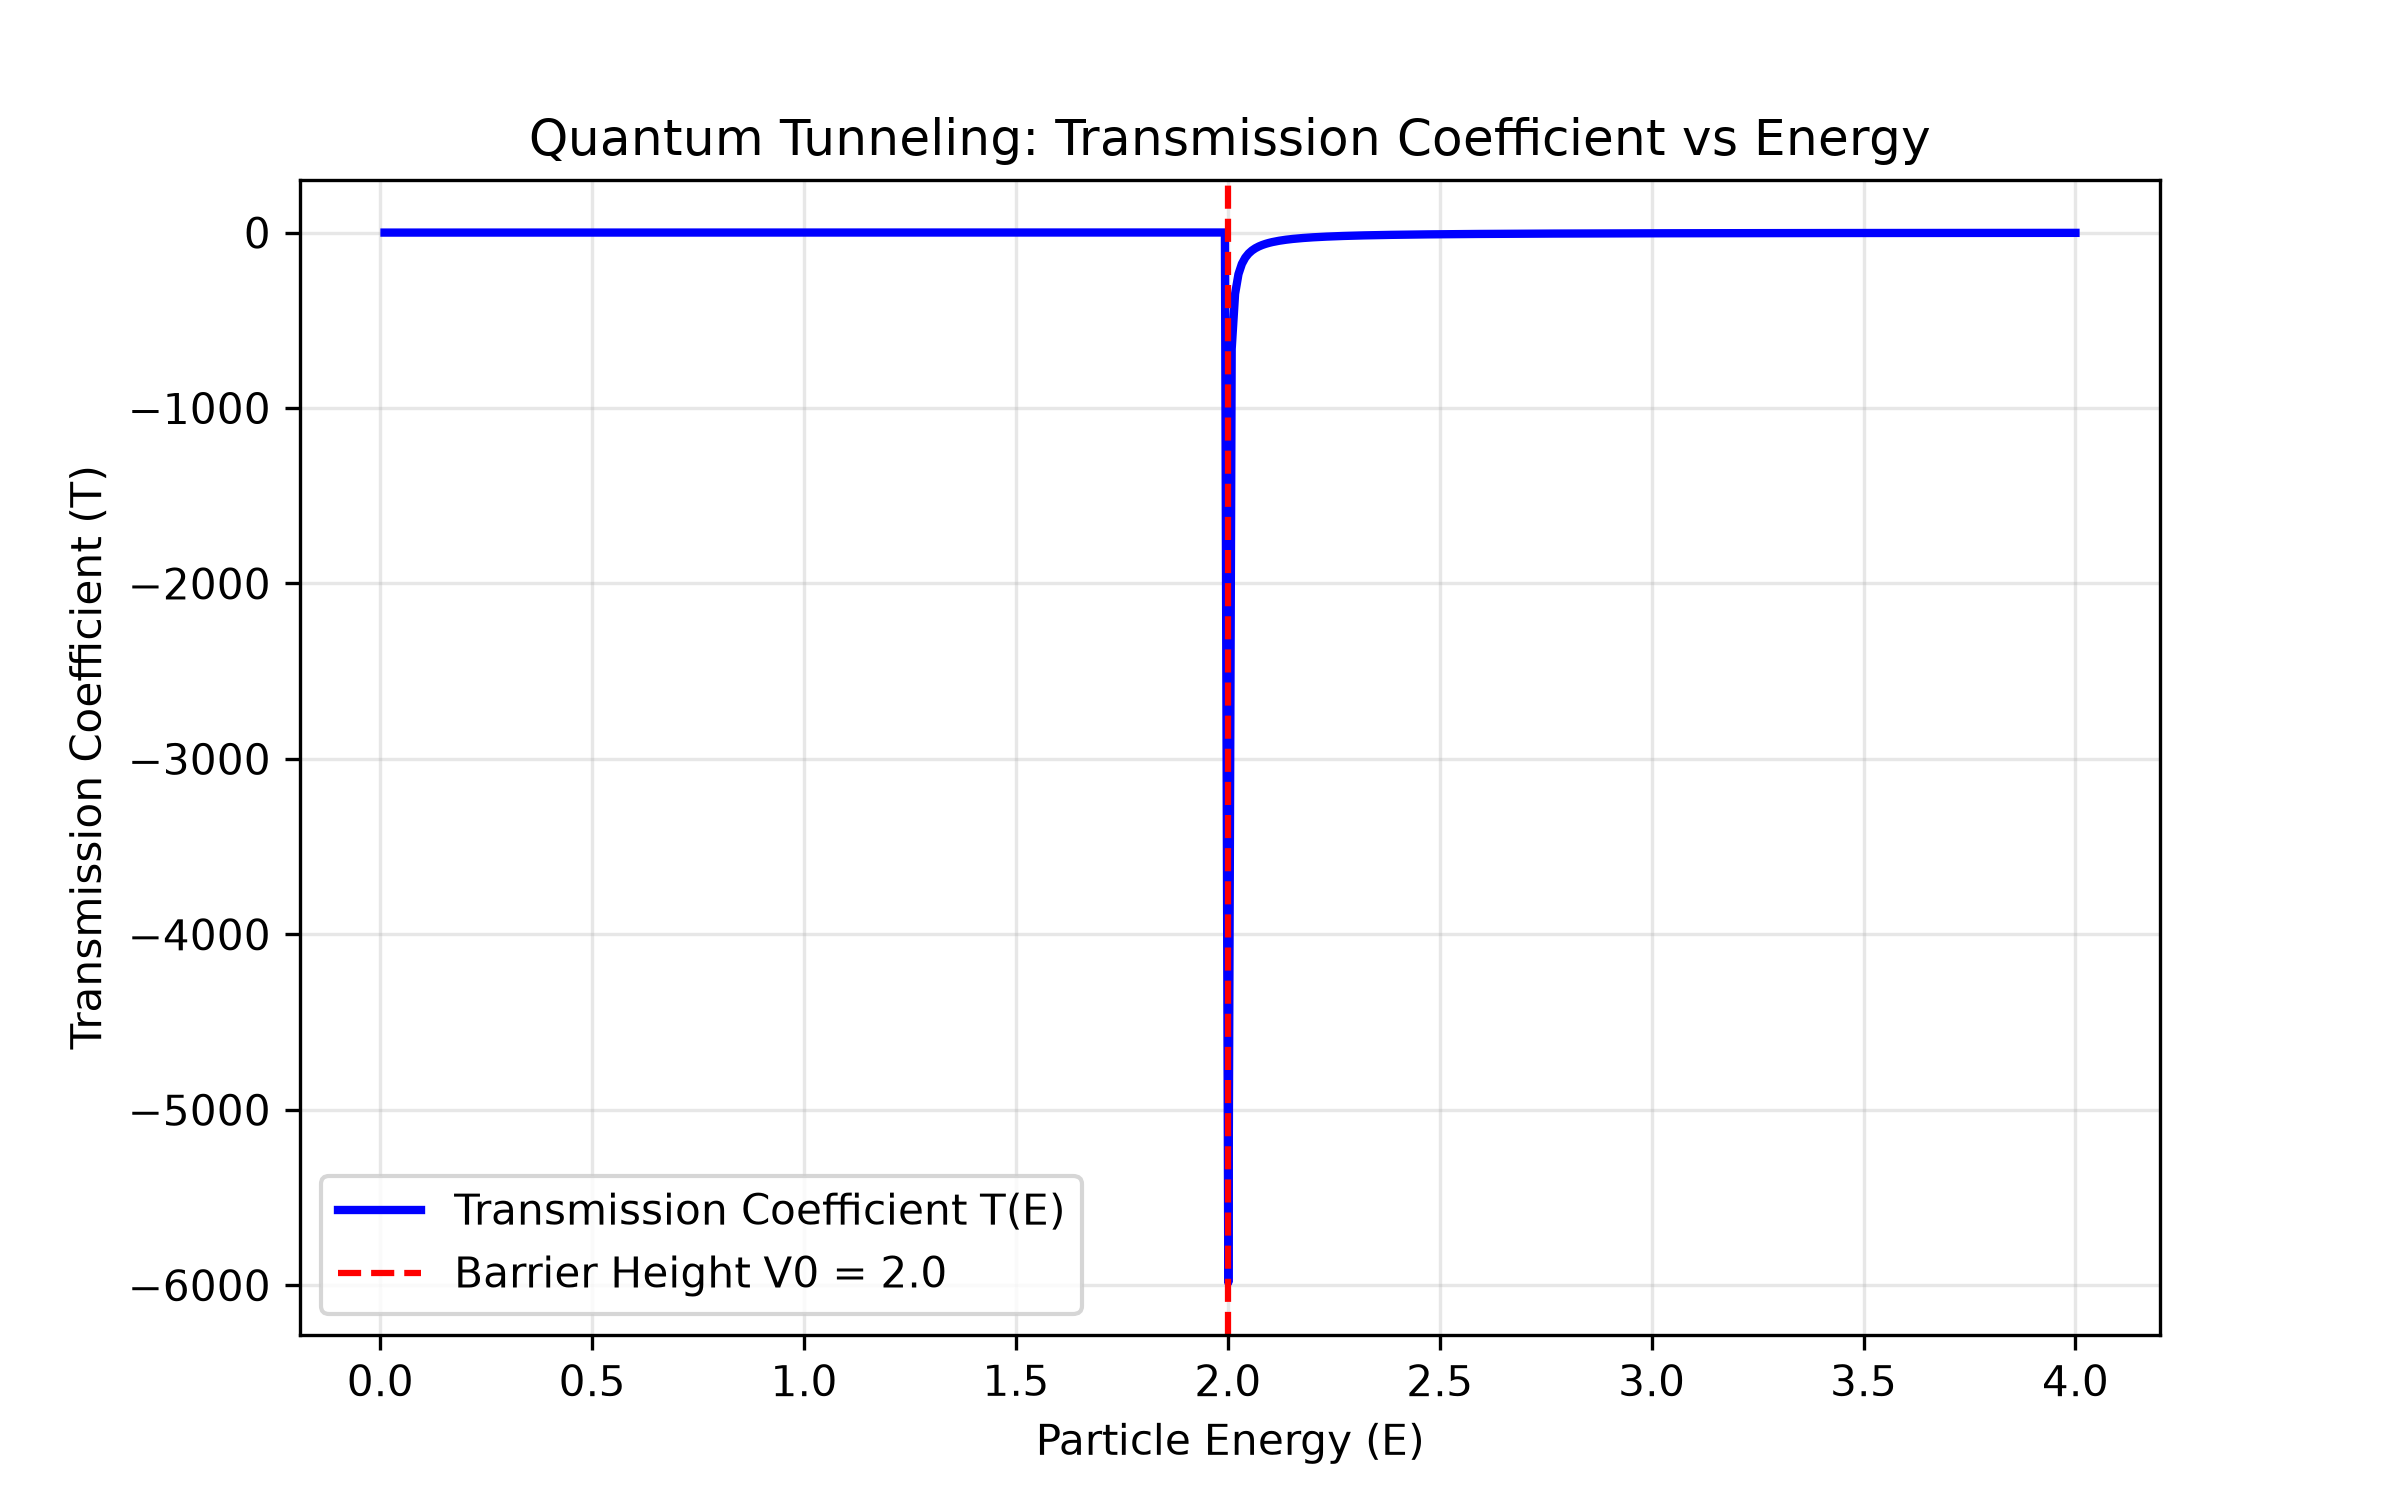
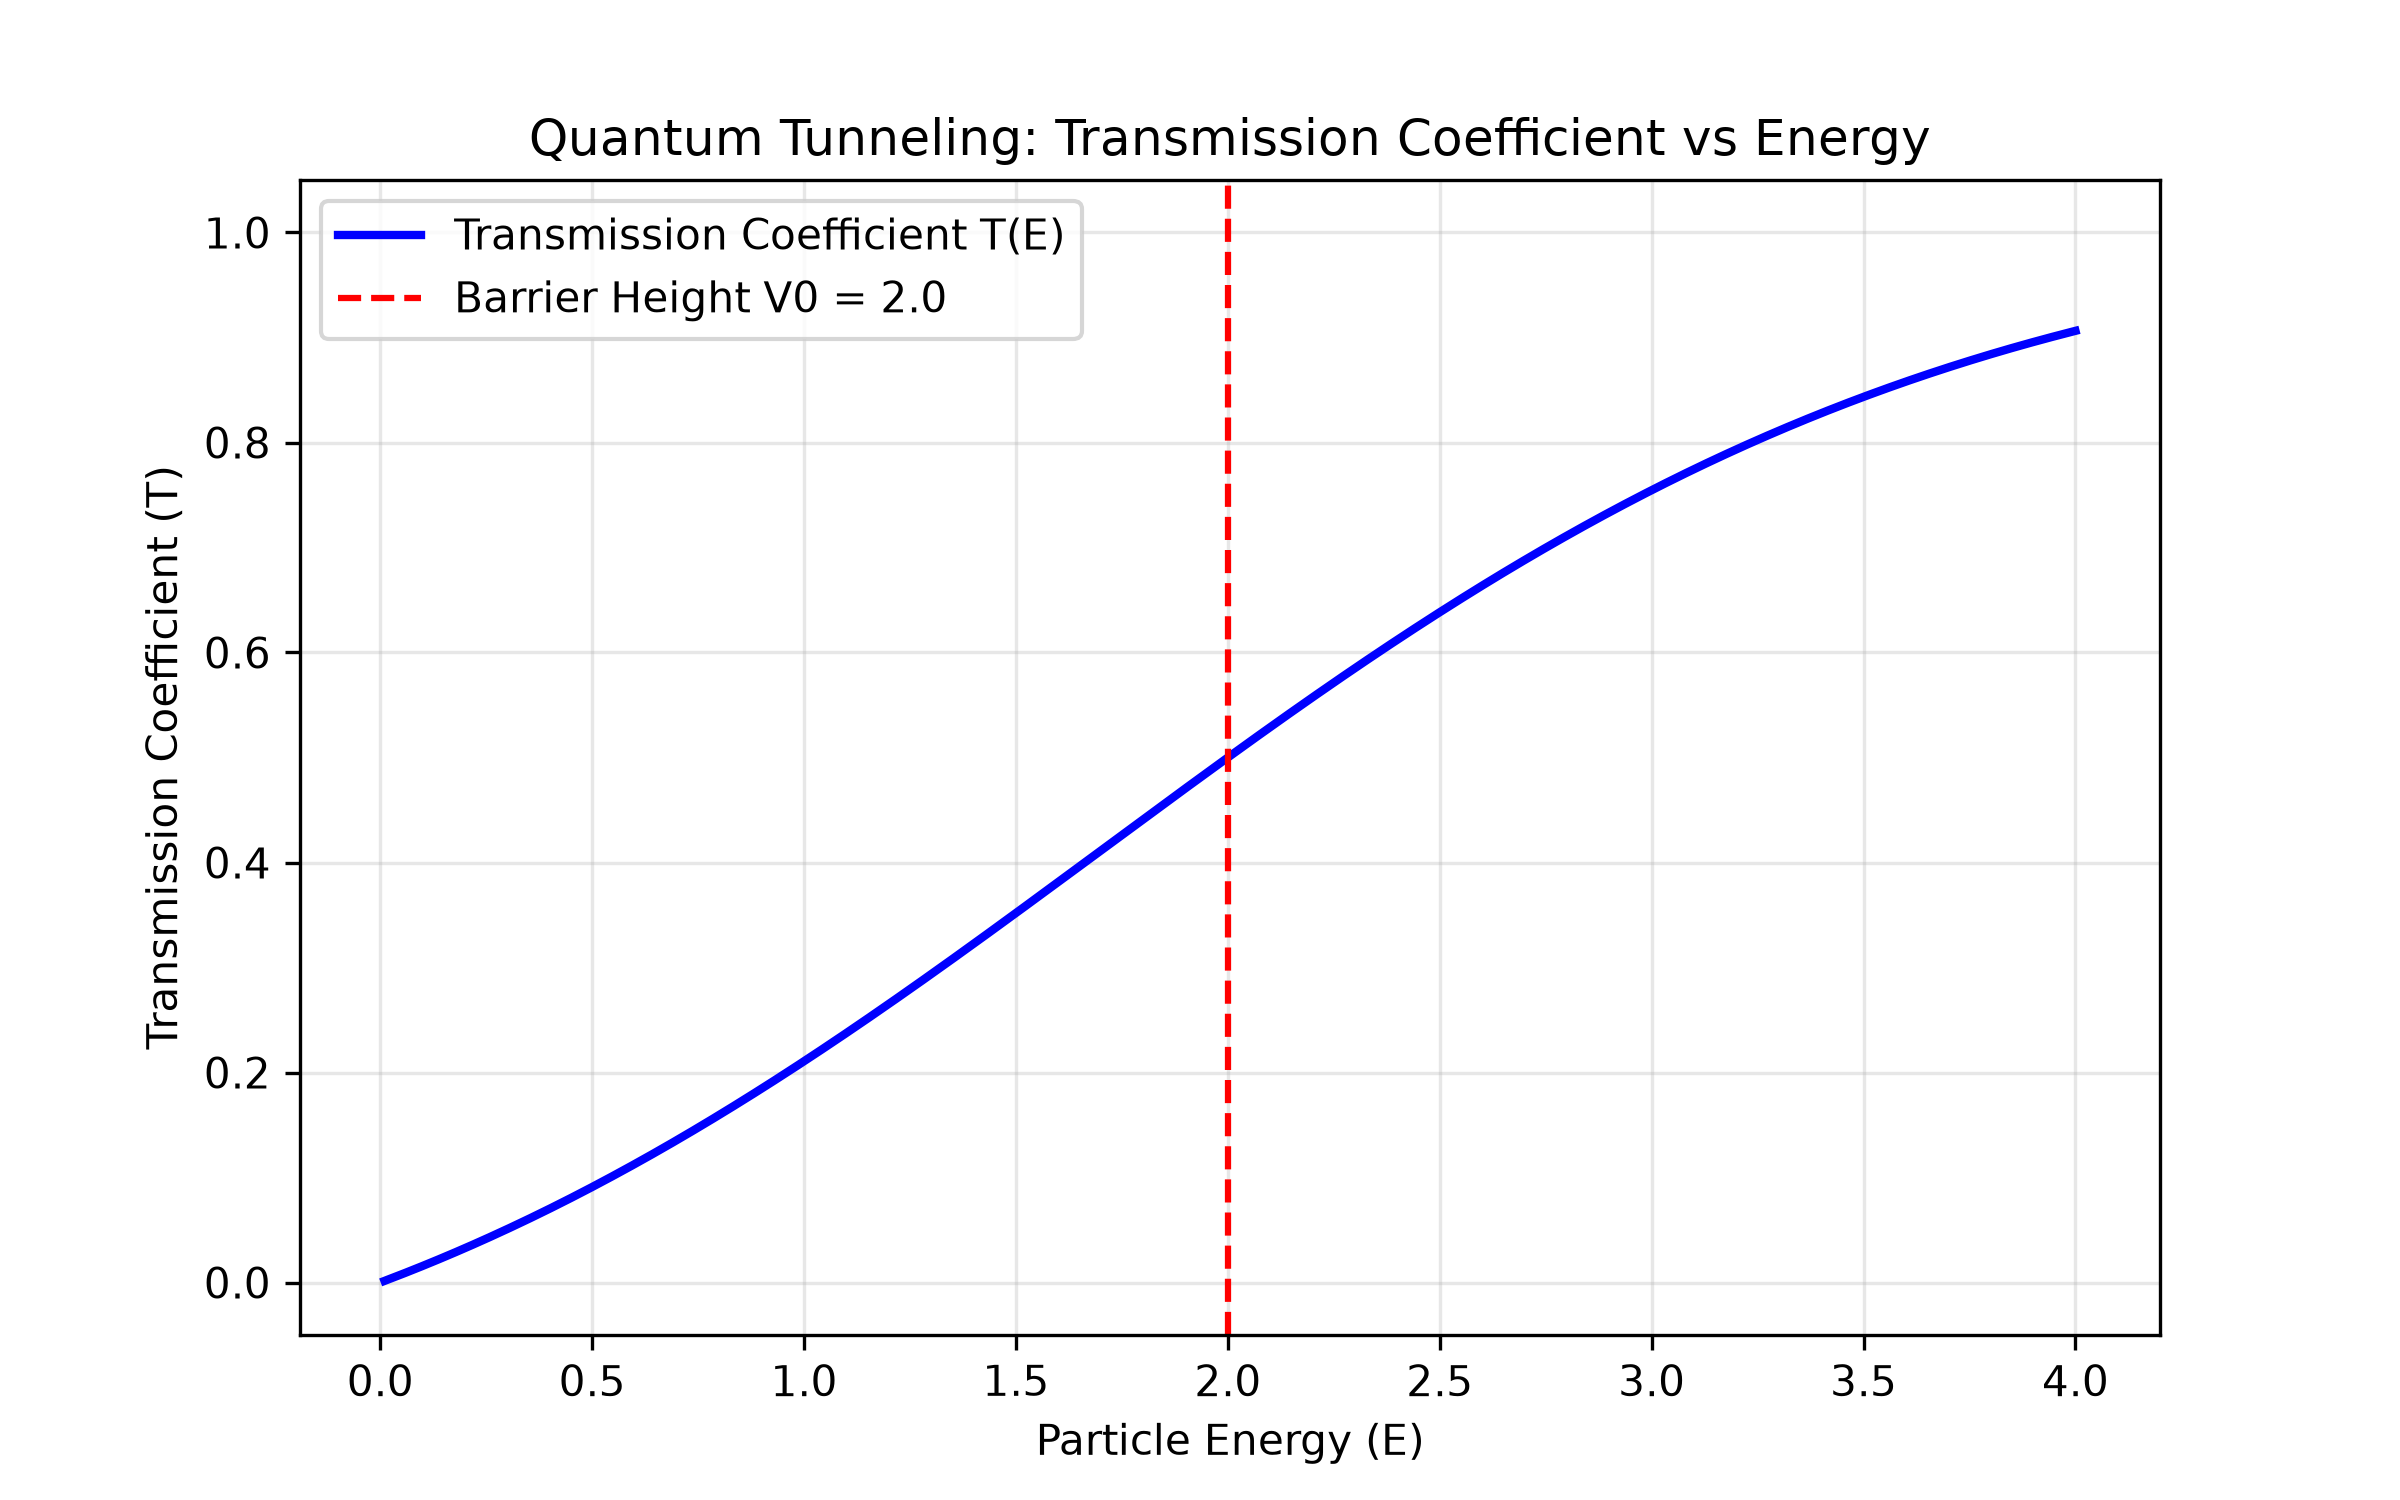
Fix transmission coefficient calculation bug (removed incorrect abs())

diff --git a/transmission_coefficient.py b/transmission_coefficient.py
@@ -11,13 +11,14 @@ L = 1.0    # Barrier width
 E = np.linspace(0.01, 4.0, 500)
 
 # ---- Wave number inside barrier (complex-safe formula) ----
-k2 = np.sqrt(2 * m * np.abs(V0 - E) + 0j) / hbar
+k2 = np.sqrt(2 * m * (V0 - E) + 0j) / hbar
 
 # ---- Transmission coefficient calculation ----
 numerator = 4 * E * (V0 - E)
 denominator = numerator + V0**2 * np.sinh(k2 * L)**2
 T = numerator / denominator
 T = np.real(T)
+T = np.clip(T, 0, 1)
 
 # ---- Plotting ----
 plt.figure(figsize=(8,5))
@@ -27,6 +28,7 @@ plt.xlabel('Particle Energy (E)')
 plt.ylabel('Transmission Coefficient (T)')
 plt.title('Quantum Tunneling: Transmission Coefficient vs Energy')
 plt.legend()
+plt.ylim(-0.05, 1.05)
 plt.grid(True, alpha=0.3)
 plt.savefig('transmission_coefficient.png', dpi=300)
 plt.show()